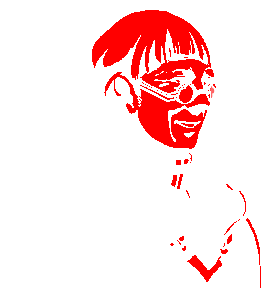
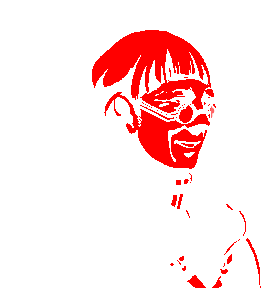
tests and aligns speaker portrait

diff --git a/levels/_tests/_portraits.js b/levels/_tests/_portraits.js
@@ -1,0 +1,13 @@
+
+CURRENTLEVEL.start_function = function() {
+  TextBannerSequence.make([
+    `$$Ren$: "You're right, this is a weird place..."`,
+    `$$BestFriend$: "I don't really like it..."`,
+    `$$StreetSmart$: "I don't really like it..."`,
+    `$$WiseOld$: "I don't really like it..."`,
+    `$$UpbeatDojikko$: "I don't really like it..."`,
+    `$$PreciousChild$: "I don't really like it..."`,
+  ], IO.control.character);
+};
+
+CURRENTLEVEL.initialize_with_character(750, 1550);

diff --git a/engine/classes/Graphic/SpeakerIcon.js b/engine/classes/Graphic/SpeakerIcon.js
@@ -27,7 +27,7 @@ class SpeakerIcon extends TextElement {
       }
       var div = document.getElementById("portrait_div");
       var v = new LayeredImage("assets/portraits_large/" + image_key + "_$.png", 300, 300, div);
-      v.shift(-100, -100);
+      v.shift(-80, -75);
       v.adjust_depth(10000);
     }
   }
